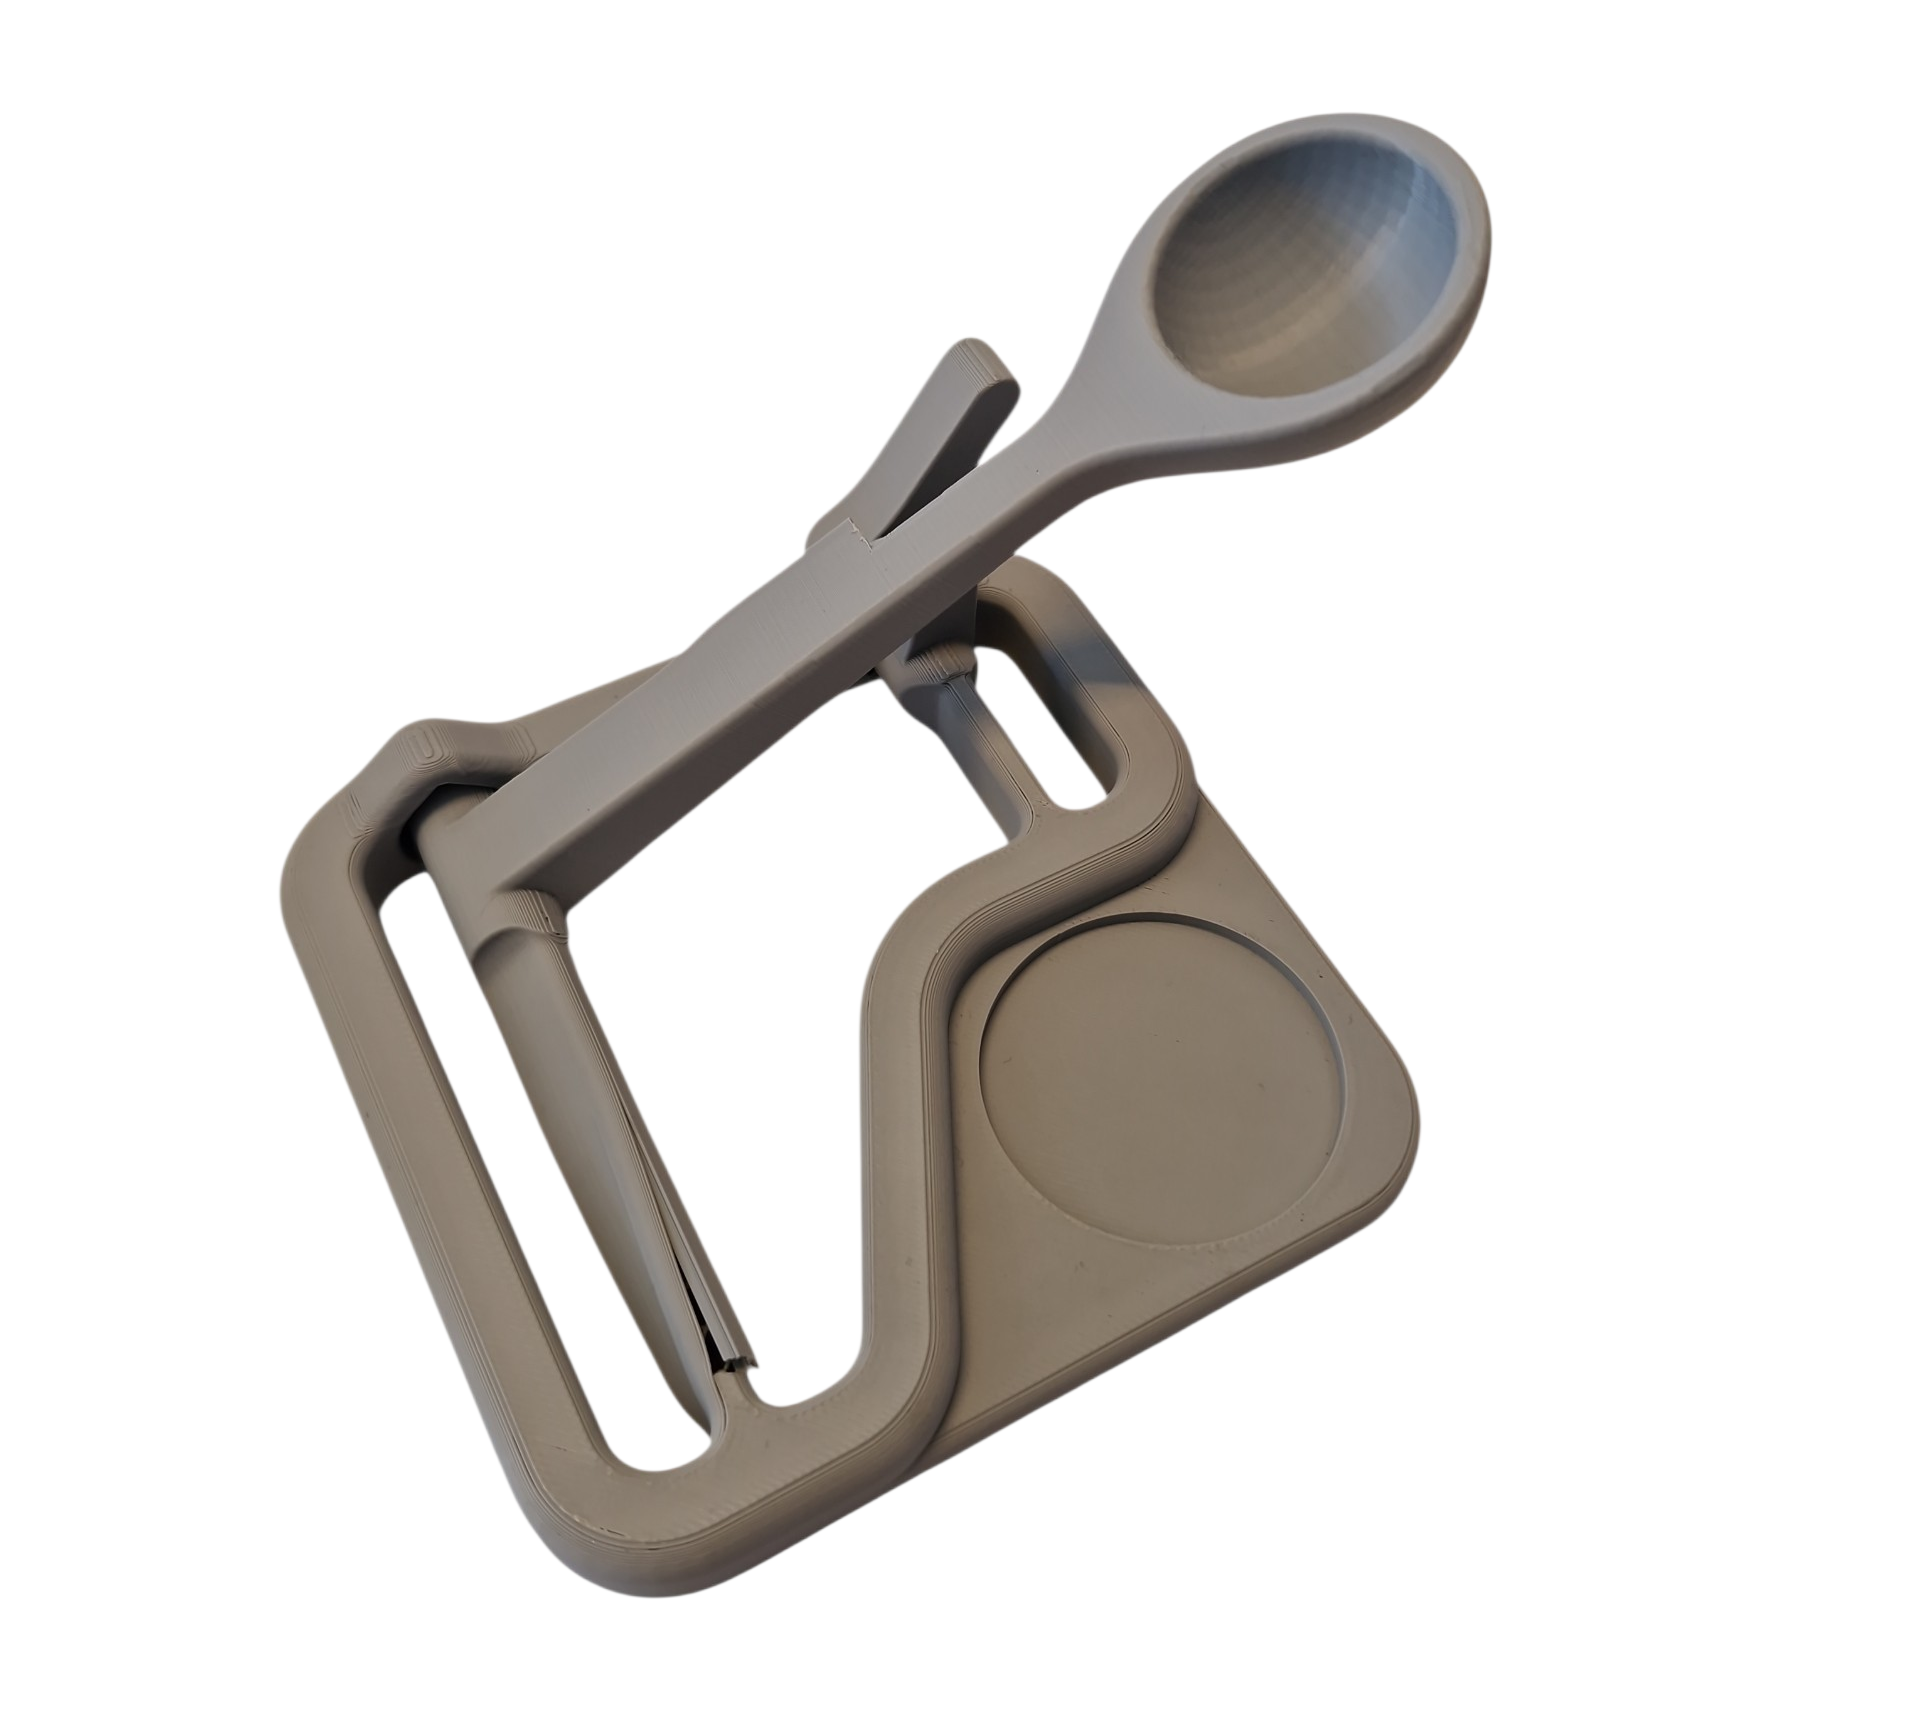
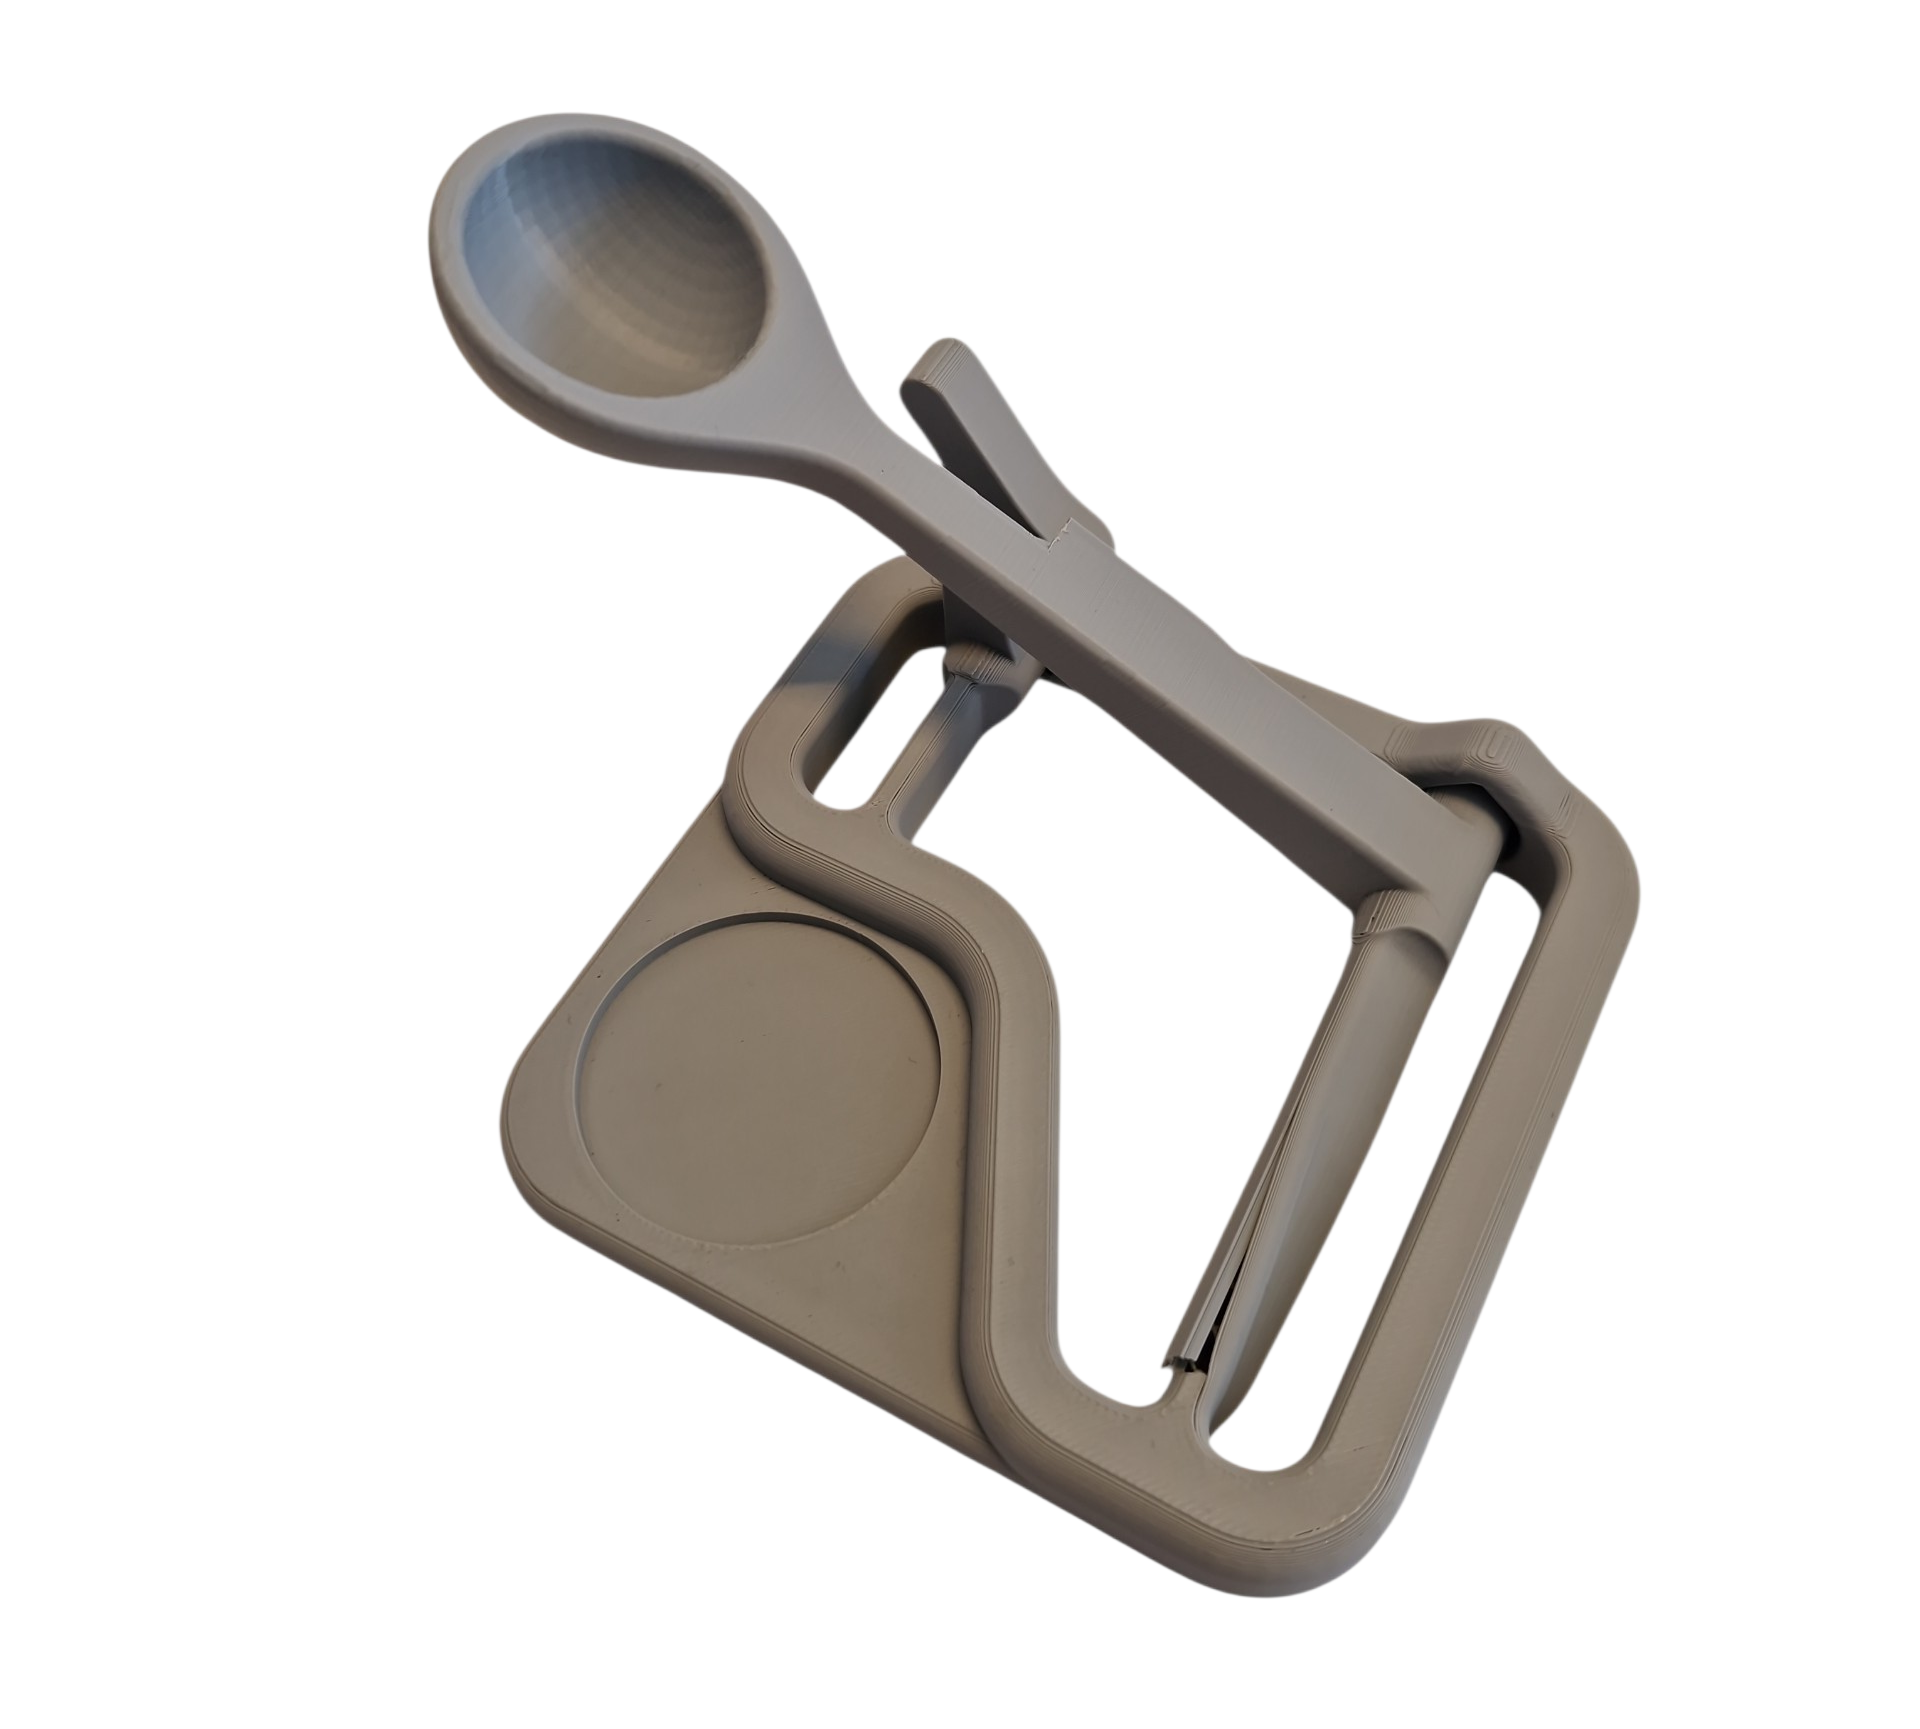
d

diff --git a/index.html b/index.html
@@ -62,13 +62,13 @@
                 <div class="grilla-pictos">
                     <div class="picto-item"><img src="assets/pic1_pozo.png"        alt="Pozo"></div>
                     <div class="picto-item"><img src="assets/pic2_caidalibre.png"  alt="Caída Libre"></div>
-                    <div class="picto-item"><img src="assets/pic4_base.png"        alt="Base"></div>
-                    <div class="picto-item"><img src="assets/pic5_guerra.png"      alt="Guerra"></div>
-                    <div class="picto-item"><img src="assets/pic6_congelado.png"   alt="Congelado"></div>
-                    <div class="picto-item"><img src="assets/pic7_equilibrio.png"  alt="Equilibrio"></div>
-                    <div class="picto-item"><img src="assets/pic8_muevelo.png"     alt="Múvelo"></div>
-                    <div class="picto-item"><img src="assets/pic9_rescate.png"     alt="Rescate"></div>
-                    <div class="picto-item"><img src="assets/pic1_pozo.png"        alt="Pozo"></div>
+                    <div class="picto-item"><img src="assets/pic3_catapulta.png"   alt="Base"></div>
+                    <div class="picto-item"><img src="assets/pic4_base.png"      alt="Guerra"></div>
+                    <div class="picto-item"><img src="assets/pic5_guerra.png"   alt="Congelado"></div>
+                    <div class="picto-item"><img src="assets/pic6_congelado.png"  ></div>
+                    <div class="picto-item"><img src="assets/pic7_invasion.png"     alt="Múvelo"></div>
+                    <div class="picto-item"><img src="assets/pic8_muevelo.png"     alt="Rescate"></div>
+                    <div class="picto-item"><img src="assets/pic9_rescate.png"        alt="Pozo"></div>
                     <div class="picto-item"><img src="assets/pic2_caidalibre.png"  alt="Caída Libre"></div>
                     <div class="picto-item"><img src="assets/pic4_base.png"        alt="Base"></div>
                     <div class="picto-item"><img src="assets/pic5_guerra.png"      alt="Guerra"></div>
@@ -121,6 +121,9 @@
                 <h3 class="tarjeta-titulo">Peones</h3>
                 <p class="tarjeta-descripcion">
                     Elige tu peón al inicio de la partida y posiciónalo en el inicio del tablero.
+                    Los peones, fichas, catapultas y municiones fueron impresas en 3D 
+                    en el Laboratorio de Modelado Asistido Digital, también conocido
+                    como "Mad Lab", en la Escuela de Arquitectura y Diseño e[ad].
                 </p>
             </article>
             
@@ -170,6 +173,27 @@
     </div>
 </section>
 
+<section class="seccion-dos-col" id="demo-gif-seccion">
+
+        <div class="dos-col-izq">
+         <div class="recuadro-texto-izq">
+          <p class="recuadro-texto-cuerpo">
+            Catapultazo, genera espacios de concentración que 
+            acumulan respuestas corporales expresivas, las cuales se ven
+            expuestas en la manipulación de la catapulta; la munición 
+            inicia su trayectoria y colisiona con otra superificie.
+            </p> 
+
+         </div>
+        </div>
+
+        <div class="dos-col-der">
+        <div class="recuadro-pictos container-tarjeta-gif">
+            <img src="assets/gif_juego.gif" alt="Demostración interactiva de Catapultazo" class="gif-adaptado-dos-col">
+        </div>
+    </div>
+
+    </section>
 
     <!-- TRANSICIÓN CIRCULAR: expande un círculo fucsia al hacer scroll — corregido: etiqueta div correcta -->
     <div class="contenedor-transicion-circular" id="como-jugar">
@@ -192,14 +216,11 @@
                 <div class="contenido-nueva-pantalla columnas-piezas-flex">
                     
                     <div class="columna-piezas-texto">
-                        <h2>¡Sobre las piezas!</h2>
+                        <h2>Fundamento de Interfaz Interactiva</h2>
                         <p class="parrafo-columna">
-                            A continuación puedes interactuar en un plano 3D 
-                            apretando el cursor, haciendo zoom, y rotando en 360°.
-                            <br/>
-                            En el juego de mesa, los peones, fichas, catapultas y municiones fueron impresas en 3D 
-                            en el Laboratorio de Modelado Asistido Digital, también conocido
-                            como "Mad Lab", en la Escuela de Arquitectura y Diseño e[ad].
+                          El argumento de la experiencia, es capturar el paralelismo presente en el modo de desencadenar reacciones; Tocar, manipular, observar, calcular. Las reacciones ocurren a través de un proceso de experiencia que involucra un determinado tiempo de interacción. La interacción surge cuando la curiosidad mantiene la atención ante estímulos que se activan por la indagación y el accionar calculado.
+            Se rescata también la relación entre la gestualidad de los dedos ante un elemento físico que desencadena una respuesta sobre una superficie.
+                       </p>   
                         </p>
                     </div>
 
@@ -213,77 +234,22 @@
 
     </div>
 
-<section class="seccion-dos-col" id="demo-gif-seccion">
-
-    <div class="dos-col-izq">
-        <div class="recuadro-texto-izq">
-            <p class="recuadro-texto-cuerpo">
-            El juego de mesa, genera espacios de concentración que 
-            acumulan respuestas corporales expresivas, las cuales se ven
-            expuestas en el momento que la munición inicia su trayectoria. 
-            Es la incertidumbre del no control, en la que el cuerpo manifiesta 
-            una expectación ante un posible resultado de una acción
-            con intención de anticipar las consecuencias. 
-            </p> 
-
-        </div>
-    </div>
-
-    <div class="dos-col-der">
-        <div class="recuadro-pictos container-tarjeta-gif">
-            <img src="assets/gif_juego.gif" alt="Demostración interactiva de Catapultazo" class="gif-adaptado-dos-col">
-        </div>
-    </div>
-
-</section>
 
 <section class="seccion-base seccion-clara" id="nueva-seccion-texto">
     <div class="bloque-contenedor-editorial">
         
         <div class="dos-col-texto-izq">
             <h2 class="subtitulo">
-                <span>Fundamento</span><br/>
-                de Experiencia Digital
+                <span>Fundamento de Interfaz Expresiva </span>
             </h2>
         </div>
 
         <div class="dos-col-texto-der">
-            <p class="presentacion-parrafo">
-            Previamente, durante el inicio del ciclo 2, de forma individual 
-            se realizaron observaciones de experiencia de juego, de las cuales
-            se interpretaron a través de un título y observación condensada: 
+           <p class="presentacion-parrafo">
+            El argumento de la experiencia, es capturar el paralelismo presente en el modo de desencadenar reacciones; Tocar, manipular, observar, calcular. Las reacciones ocurren a través de un proceso de experiencia que involucra un determinado tiempo de interacción. La interacción surge cuando la curiosidad mantiene la atención ante estímulos que se activan por la indagación y el accionar calculado.
+            Se rescata también la relación entre la gestualidad de los dedos ante un elemento físico que desencadena una respuesta sobre una superficie.
             </p>
-
             <p class="presentacion-parrafo">
-              "La respuesta corporal ante el estímulo lúdico - 
-              La interacción del juego como objeto ante la curiosidad e 
-              indagación propia del jugador, el modo en el cual el cuerpo 
-              revela lenguajes implícitos durante el acto propio de jugar. <br/>
-              La experiencia responde así, ante un estímulo nuevo como 
-              expresiones inconscientes de gestualidades físicas ligadas al
-               ánimo y dinámicas de interacción en grupos. Modos de interpretación
-              a través del lenguaje corporal."
-            </p>
-
-            <p class="presentacion-parrafo">
-            El desarrollo del juego de mesa, reveló ciertas dinámicas que 
-            fueron planificadas por medio de la lógica del flujo de interacción
-            entre el azar de la baraja de cartas, la elección de fichas 
-            aleatorias y la presencia de casillas en el tablero. Es a través
-            de la interacción con cartas que se produce movimiento entre peones
-            y se activa la posibilidad de utilizar la catapulta. La catapulta 
-            y las municiones representan una dimensión de competencia, atención, 
-            ligera adrenalina e incertidumbre ante las posibles consecuencias 
-            (que tu peón caiga del tablero, o que tu peón resista las municiones). 
-            </p>
-
-            <p class="presentacion-parrafo">
-            El argumento de la experiencia, es capturar las expresiones corporales 
-            a raíz de las dinámicas sensoriales; Tocar, manipular, observar, calcular.
-            Las reacciones ocurren a través de un proceso de experiencia que involucra
-            un determinado tiempo de compromiso. El compromiso surge cuando la curiosidad
-            mantiene la atención ante estímulos que se activan por la indagación 
-            y el accionar calculado.
             </p>
 
         </div>

diff --git a/style.css b/style.css
@@ -926,35 +926,3 @@ body {
     width: 100%;
 }
 
-/* ==========================================================================
-   NUEVA SECCIÓN DE TEXTO EN DOS COLUMNAS (PROPORCIÓN DIRECTA 40% / 60%)
-   ========================================================================== */
-
-/* Contenedor flexible para alinear los bloques horizontalmente */
-.bloque-contenedor-editorial {
-    display: flex;
-    flex-direction: row;
-    justify-content: space-between;
-    align-items: flex-start;
-    width: 100%;
-    max-width: 1200px;     /* Alineado con la grilla general del sitio web */
-    margin: 0 auto;
-    gap: 64px;             /* Espacio de separación elegante entre columnas */
-    padding: 0 40px;
-}
-
-/* Columna Izquierda (Título) fijada en el 40% */
-.dos-col-texto-izq {
-    flex: 0 0 40%;
-    min-width: 0;
-}
-
-/* Columna Derecha (Párrafos) fijada en el 60% */
-.dos-col-texto-der {
-    flex: 0 0 60%;
-    min-width: 0;
-    display: flex;
-    flex-direction: column;
-    gap: 24px;             /* Separación entre un párrafo y otro */
-}
-
